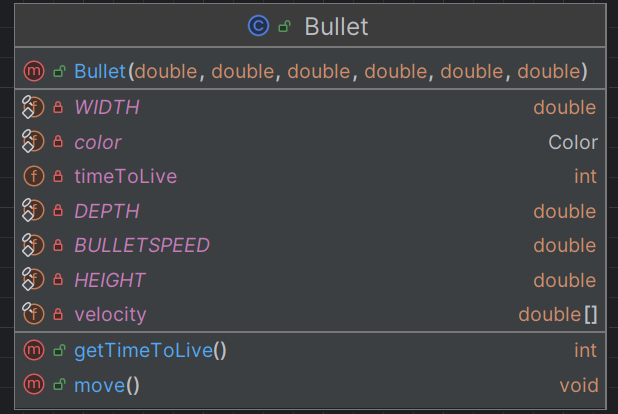
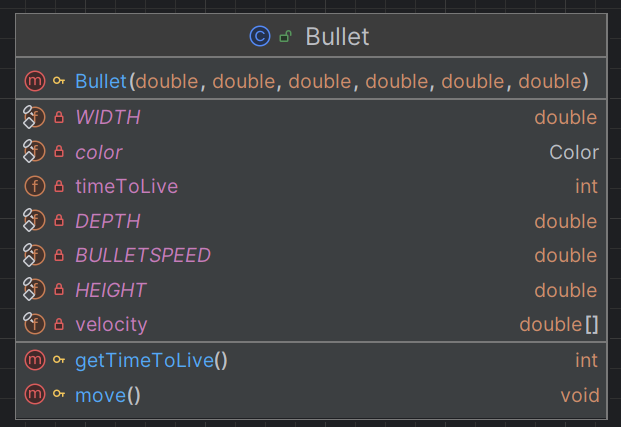
Changed package names and put Player and Bullet into the Java3DShooter/Player package together so that only the Player can access Bullets

Changed region(s): [[0.0, 0.0, 1.0, 1.0]]

diff --git a/src/main/java/Java3DShooter/Player/Bullet.java b/src/main/java/Java3DShooter/Player/Bullet.java
@@ -1,4 +1,4 @@
-package org.example.Java3DShooter;
+package Java3DShooter.Player;
 
 import javafx.scene.paint.Color;
 import javafx.scene.paint.PhongMaterial;
@@ -43,7 +43,7 @@ public class Bullet extends Box {
     /**
      * Creates a new bullet at the set position
      */
-    public Bullet(double x, double y, double z, double xVel, double yVel, double zVel) {
+    protected Bullet(double x, double y, double z, double xVel, double yVel, double zVel) {
         // Hey that's cool, you can't reference these fields(WIDTH, HEIGHT, DEPTH) unless they are static because super precedes the object's creation
         // I guess that's why super() has to be the first call in the constructor since the parent class has to be initialized first before the child
         // I did not know that :)
@@ -62,12 +62,12 @@ public class Bullet extends Box {
      * Returns the bullet's remaining timeToLive
      * @return Frames left before death
      */
-    public int getTimeToLive() { return timeToLive; }
+    protected int getTimeToLive() { return timeToLive; }
 
     /**
      * Moves the bullet forward by one frame
      */
-    public void move() {
+    protected void move() {
         this.setTranslateX(this.getTranslateX() + velocity[0]);
         this.setTranslateY(this.getTranslateY() + velocity[1]);
         this.setTranslateZ(this.getTranslateZ() + velocity[2]);

diff --git a/src/main/java/Java3DShooter/Main.java b/src/main/java/Java3DShooter/Main.java
@@ -1,5 +1,6 @@
-package org.example.Java3DShooter;
+package Java3DShooter;
 
+import Java3DShooter.Player.Player;
 import javafx.animation.AnimationTimer;
 import javafx.application.Application;
 import javafx.scene.*;

diff --git a/src/main/java/Java3DShooter/Enemy.java b/src/main/java/Java3DShooter/Enemy.java
@@ -1,4 +1,4 @@
-package org.example.Java3DShooter;
+package Java3DShooter;
 
 import javafx.scene.paint.Color;
 import javafx.scene.paint.PhongMaterial;

diff --git a/src/main/java/Java3DShooter/Player/Player.java b/src/main/java/Java3DShooter/Player/Player.java
@@ -1,4 +1,4 @@
-package org.example.Java3DShooter;
+package Java3DShooter.Player;
 
 import javafx.scene.Group;
 import javafx.scene.Node;
